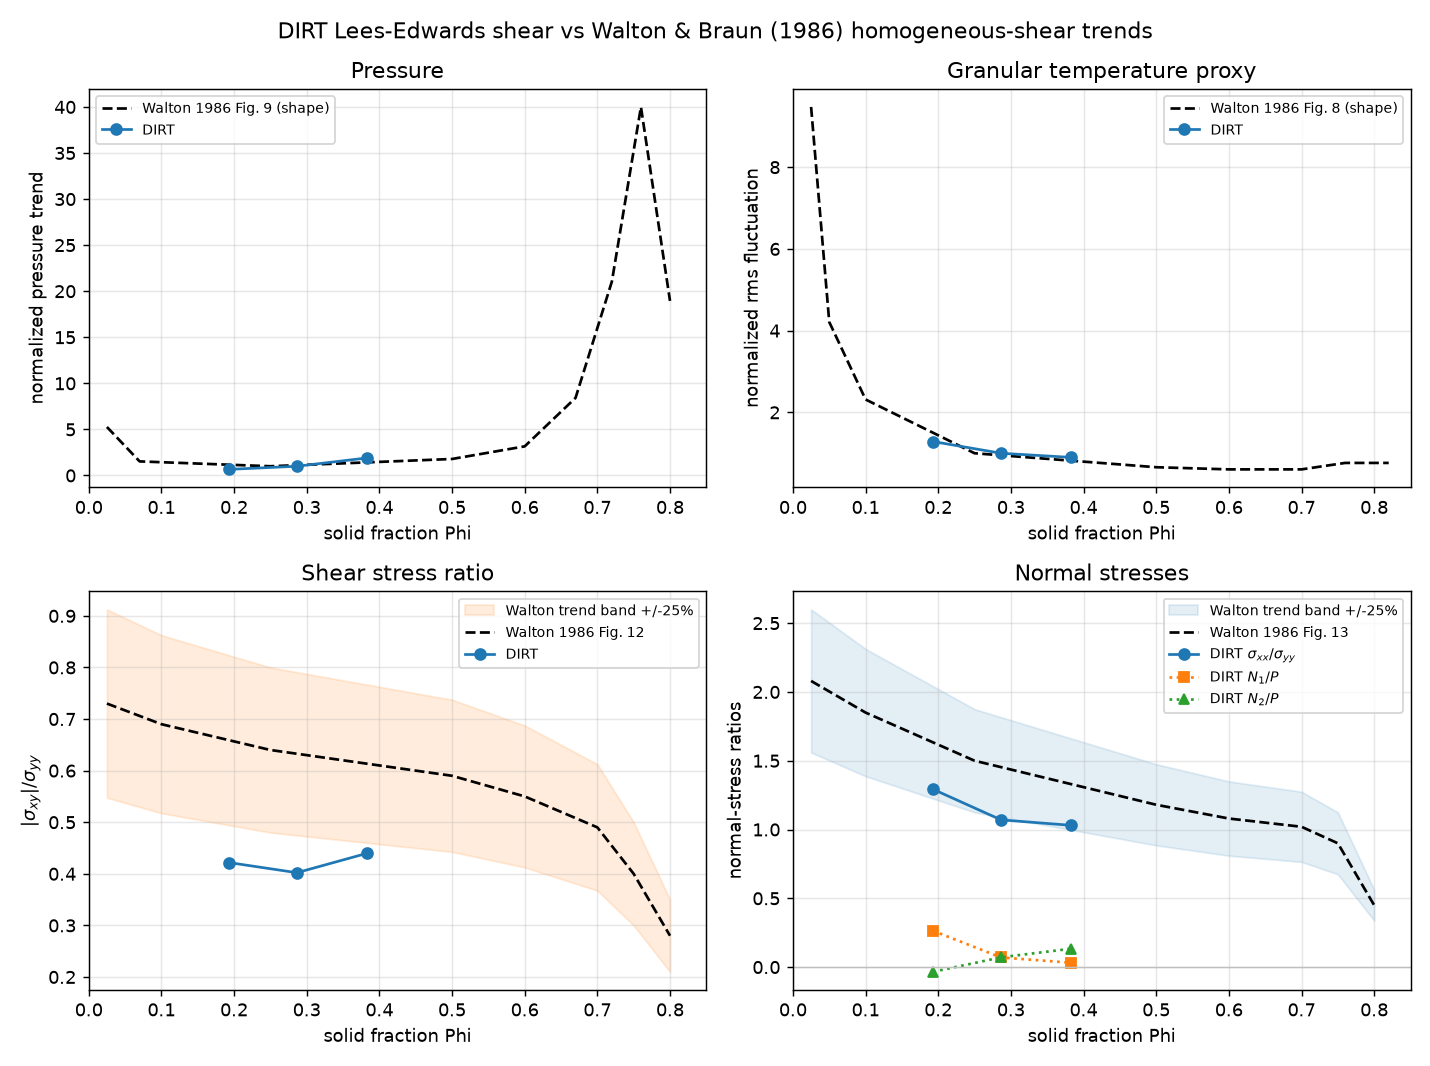
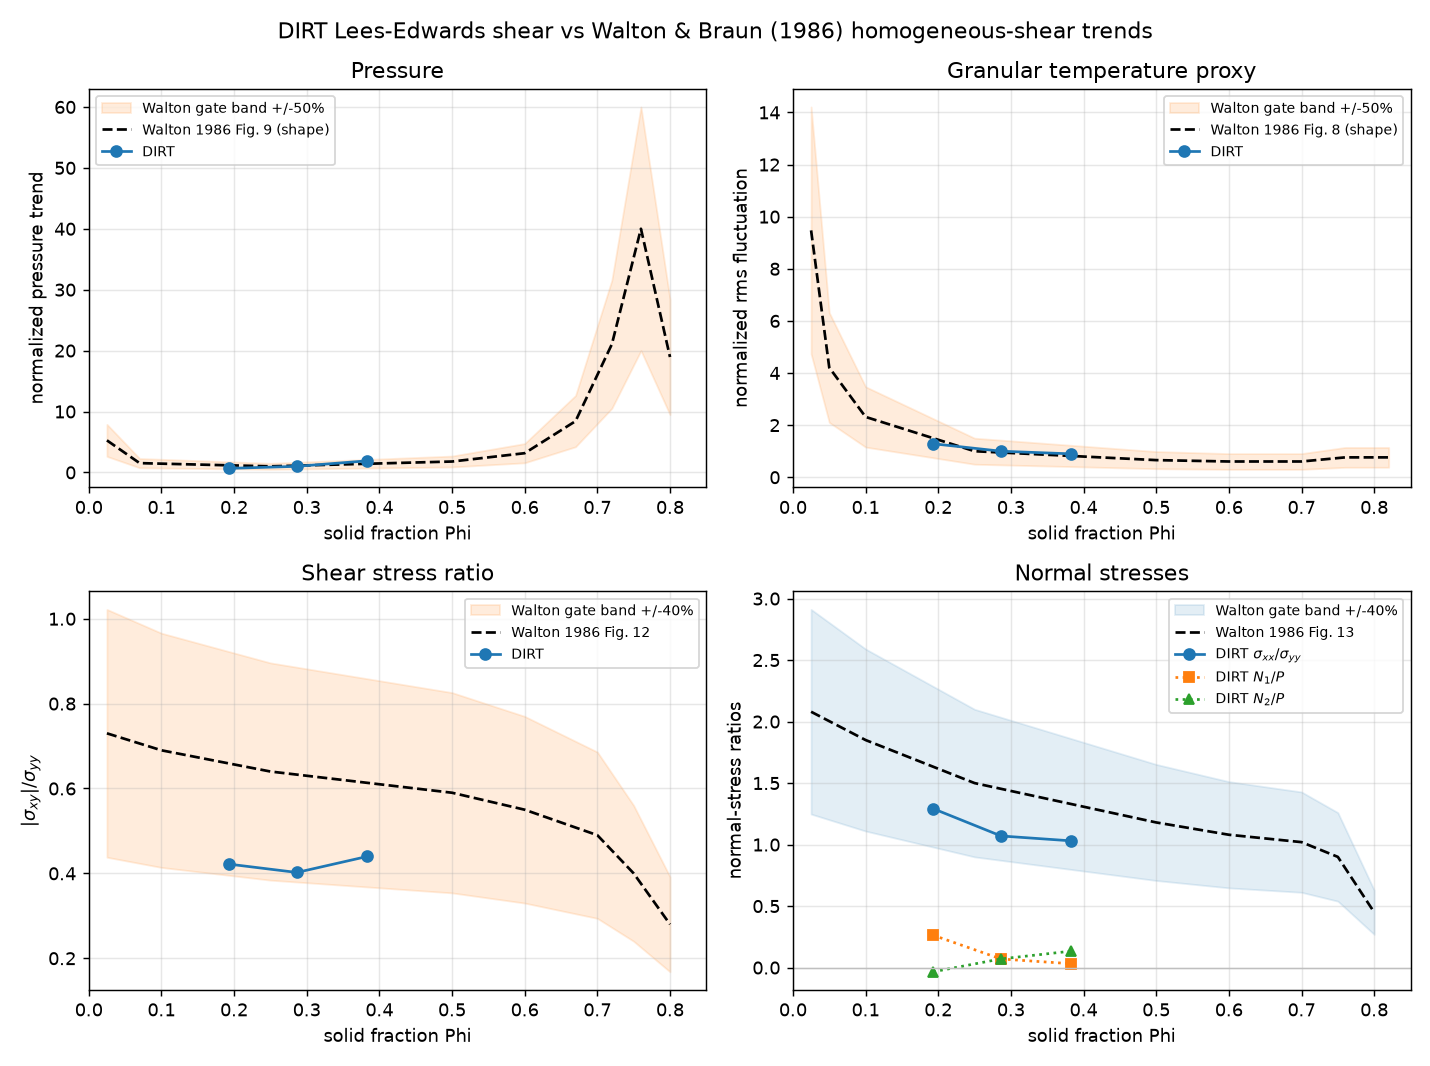
Gate Walton shear overlay against reference bands

diff --git a/examples/bench_lebc_shear/sweep.py b/examples/bench_lebc_shear/sweep.py
@@ -474,27 +474,86 @@ def normalize_to_ref(xs, ys, ref, ref_phi=0.30):
     return [y / scale for y in ys]
 
 
+WALTON_SHAPE_TOL = 0.50
+WALTON_STRESS_RATIO_TOL = 0.40
+
+
+def interp_ref(ref, x):
+    """Linear interpolation over the digitized Walton reference curve."""
+    pts = sorted(ref)
+    if x <= pts[0][0]:
+        return pts[0][1]
+    if x >= pts[-1][0]:
+        return pts[-1][1]
+    for (x0, y0), (x1, y1) in zip(pts, pts[1:]):
+        if x0 <= x <= x1:
+            t = (x - x0) / (x1 - x0)
+            return y0 + t * (y1 - y0)
+    return pts[-1][1]
+
+
+def in_relative_band(value, reference, tol):
+    if not (math.isfinite(value) and math.isfinite(reference)) or reference == 0.0:
+        return False
+    return (1.0 - tol) * reference <= value <= (1.0 + tol) * reference
+
+
+def walton_shape_ratios(phi, values, key, ref_phi=0.30):
+    """Return (phi, normalized DIRT, normalized interpolated Walton) tuples."""
+    if not phi or not values:
+        return []
+    ref_values = [interp_ref(WALTON_REF[key], x) for x in phi]
+    dirt_norm = normalize_to_ref(phi, values, WALTON_REF[key], ref_phi=ref_phi)
+    ref_norm = normalize_to_ref(phi, ref_values, WALTON_REF[key], ref_phi=ref_phi)
+    return list(zip(phi, dirt_norm, ref_norm))
+
+
 def walton_trend_checks(points):
-    """Trend gates against Walton 1986 qualitative homogeneous-shear signatures."""
+    """Trend gates against digitized Walton 1986 homogeneous-shear signatures.
+
+    Walton is a 2-D disk calculation and this DIRT case is 3-D spheres, so the
+    pressure and fluctuation-velocity gates compare normalized shapes instead of
+    raw magnitudes. Dimensionless stress ratios are compared directly with a
+    wider cross-geometry band, and the same bands are drawn in the overlay plot.
+    """
     prod = sorted([p for p in points if p["sweep"] == "production"], key=lambda d: d["phi"])
     if len(prod) < 3:
         return [(False, f"Walton trend cases: {len(prod)} production points (need >=3)")]
     checks = []
+    phi = [p["phi"] for p in prod]
     pbag = [p["p"] / (DENSITY * D_MEAN**2 * p["gdot"]**2) for p in prod]
     tstar = [p["T"] / (p["gdot"] * D_MEAN) ** 2 for p in prod]
+    vrms = [math.sqrt(3.0 * max(v, 0.0)) for v in tstar]
     dyn_mu = [abs(p["sxy"]) / abs(p["syy"]) if p["syy"] else float("nan") for p in prod]
     sxx_syy = [p["sxx"] / p["syy"] if p["syy"] else float("nan") for p in prod]
     n1_over_p = [p["N1"] / p["p"] if p["p"] else float("nan") for p in prod]
     n2_over_p = [p["N2"] / p["p"] if p["p"] else float("nan") for p in prod]
 
-    checks.append((max(pbag) / min(pbag) > 1.15,
-                   "Walton pressure trend: Bagnold-normalized pressure varies with packing"))
-    checks.append((tstar[0] > tstar[-1],
-                   "Walton granular-temperature trend: T/(gdot d)^2 decreases from loose to denser flow"))
-    checks.append((all(0.20 <= x <= 0.90 for x in dyn_mu),
-                   "Walton shear-ratio trend: |sigma_xy|/sigma_yy remains in rapid-shear range"))
-    checks.append((all(0.35 <= x <= 2.5 for x in sxx_syy),
-                   "Walton normal-stress trend: sigma_xx/sigma_yy stays finite and positive"))
+    pressure_pairs = walton_shape_ratios(phi, pbag, "pressure_total")
+    velocity_pairs = walton_shape_ratios(phi, vrms, "velocity_rms")
+    pressure_ok = all(in_relative_band(dirt, ref, WALTON_SHAPE_TOL)
+                      for _, dirt, ref in pressure_pairs)
+    velocity_ok = all(in_relative_band(dirt, ref, WALTON_SHAPE_TOL)
+                      for _, dirt, ref in velocity_pairs)
+    dyn_pairs = [(x, y, interp_ref(WALTON_REF["dynamic_friction"], x)) for x, y in zip(phi, dyn_mu)]
+    normal_pairs = [(x, y, interp_ref(WALTON_REF["stress_ratio_xx_yy"], x)) for x, y in zip(phi, sxx_syy)]
+    dyn_ok = all(in_relative_band(dirt, ref, WALTON_STRESS_RATIO_TOL)
+                 for _, dirt, ref in dyn_pairs)
+    normal_ok = all(in_relative_band(dirt, ref, WALTON_STRESS_RATIO_TOL)
+                    for _, dirt, ref in normal_pairs)
+
+    checks.append((pressure_ok,
+                   f"Walton pressure shape: normalized DIRT within ±{int(WALTON_SHAPE_TOL*100)}% "
+                   "of digitized Fig. 9 at measured Phi"))
+    checks.append((velocity_ok,
+                   f"Walton fluctuation-velocity shape: normalized DIRT within ±{int(WALTON_SHAPE_TOL*100)}% "
+                   "of digitized Fig. 8 at measured Phi"))
+    checks.append((dyn_ok,
+                   f"Walton shear-ratio gate: |sigma_xy|/sigma_yy within ±{int(WALTON_STRESS_RATIO_TOL*100)}% "
+                   "of digitized Fig. 12 at measured Phi"))
+    checks.append((normal_ok,
+                   f"Walton normal-stress gate: sigma_xx/sigma_yy within ±{int(WALTON_STRESS_RATIO_TOL*100)}% "
+                   "of digitized Fig. 13 at measured Phi"))
     checks.append((all(abs(x) < 2.0 for x in n1_over_p) and all(abs(x) < 2.0 for x in n2_over_p),
                    "DIRT normal-stress differences: |N1|/P and |N2|/P remain bounded"))
     return checks
@@ -518,7 +577,12 @@ def plot_walton_overlay(points, plt):
     fig, axs = plt.subplots(2, 2, figsize=(11, 8.2))
     ax = axs[0][0]
     wx, wy = zip(*WALTON_REF["pressure_total"])
-    ax.plot(wx, normalize_to_ref(list(wx), list(wy), WALTON_REF["pressure_total"]), "k--",
+    w_norm = normalize_to_ref(list(wx), list(wy), WALTON_REF["pressure_total"])
+    ax.fill_between(wx, [(1.0 - WALTON_SHAPE_TOL) * y for y in w_norm],
+                    [(1.0 + WALTON_SHAPE_TOL) * y for y in w_norm],
+                    color="tab:orange", alpha=0.14,
+                    label=f"Walton gate band +/-{int(WALTON_SHAPE_TOL*100)}%")
+    ax.plot(wx, w_norm, "k--",
             label="Walton 1986 Fig. 9 (shape)")
     ax.plot(phi, normalize_to_ref(phi, pbag, WALTON_REF["pressure_total"]), "o-", label="DIRT")
     ax.set_ylabel("normalized pressure trend")
@@ -526,7 +590,12 @@ def plot_walton_overlay(points, plt):
 
     ax = axs[0][1]
     wx, wy = zip(*WALTON_REF["velocity_rms"])
-    ax.plot(wx, normalize_to_ref(list(wx), list(wy), WALTON_REF["velocity_rms"]), "k--",
+    w_norm = normalize_to_ref(list(wx), list(wy), WALTON_REF["velocity_rms"])
+    ax.fill_between(wx, [(1.0 - WALTON_SHAPE_TOL) * y for y in w_norm],
+                    [(1.0 + WALTON_SHAPE_TOL) * y for y in w_norm],
+                    color="tab:orange", alpha=0.14,
+                    label=f"Walton gate band +/-{int(WALTON_SHAPE_TOL*100)}%")
+    ax.plot(wx, w_norm, "k--",
             label="Walton 1986 Fig. 8 (shape)")
     ax.plot(phi, normalize_to_ref(phi, vrms, WALTON_REF["velocity_rms"]), "o-", label="DIRT")
     ax.set_ylabel("normalized rms fluctuation")
@@ -534,8 +603,10 @@ def plot_walton_overlay(points, plt):
 
     ax = axs[1][0]
     wx, wy = zip(*WALTON_REF["dynamic_friction"])
-    ax.fill_between(wx, [0.75 * y for y in wy], [1.25 * y for y in wy],
-                    color="tab:orange", alpha=0.14, label="Walton trend band +/-25%")
+    ax.fill_between(wx, [(1.0 - WALTON_STRESS_RATIO_TOL) * y for y in wy],
+                    [(1.0 + WALTON_STRESS_RATIO_TOL) * y for y in wy],
+                    color="tab:orange", alpha=0.14,
+                    label=f"Walton gate band +/-{int(WALTON_STRESS_RATIO_TOL*100)}%")
     ax.plot(wx, wy, "k--", label="Walton 1986 Fig. 12")
     ax.plot(phi, dyn_mu, "o-", label="DIRT")
     ax.set_ylabel(r"$|\sigma_{xy}|/\sigma_{yy}$")
@@ -543,8 +614,10 @@ def plot_walton_overlay(points, plt):
 
     ax = axs[1][1]
     wx, wy = zip(*WALTON_REF["stress_ratio_xx_yy"])
-    ax.fill_between(wx, [0.75 * y for y in wy], [1.25 * y for y in wy],
-                    color="tab:blue", alpha=0.12, label="Walton trend band +/-25%")
+    ax.fill_between(wx, [(1.0 - WALTON_STRESS_RATIO_TOL) * y for y in wy],
+                    [(1.0 + WALTON_STRESS_RATIO_TOL) * y for y in wy],
+                    color="tab:blue", alpha=0.12,
+                    label=f"Walton gate band +/-{int(WALTON_STRESS_RATIO_TOL*100)}%")
     ax.plot(wx, wy, "k--", label="Walton 1986 Fig. 13")
     ax.plot(phi, sxx_syy, "o-", label=r"DIRT $\sigma_{xx}/\sigma_{yy}$")
     ax.plot(phi, n1_over_p, "s:", label=r"DIRT $N_1/P$")

diff --git a/examples/bench_lebc_shear/README.md b/examples/bench_lebc_shear/README.md
@@ -52,7 +52,8 @@ that each reaches a **steady, physical shear-stress ratio** `μ = |σ_xy|/P`
 (0.30 ≤ μ ≤ 0.70, pressure `P > 0`, window drift < 15%). It also checks the
 Walton & Braun (1986) homogeneous-shear trends for pressure, shear ratio,
 granular-temperature proxy, and normal-stress anisotropy, and writes
-`plots/walton_1986_overlay.png`. It completes in ~9 min and prints
+`plots/walton_1986_overlay.png` with the same bands enforced by the PASS gate.
+It completes in ~9 min and prints
 `ALL CHECKS PASSED`/`CHECKS FAILED`. The full production+KT sweep and its
 kinetic-theory tolerances (in `graph()`) are **unchanged** and still run via
 `sweep.py full`.
@@ -103,10 +104,12 @@ near random-close-packing, is reachable. The sweep runs two families:
    records directly: pressure, shear stress ratio, granular-temperature proxy,
    and normal-stress anisotropy. Because Walton is two-dimensional disks and
    DIRT is three-dimensional spheres, this is a dimensionless trend gate rather
-   than a pointwise material calibration: pressure must vary with packing, the
-   fluctuation velocity must fall from loose to denser flow, `|σ_xy|/σ_yy` must
-   remain in the rapid-shear range, and `N1/P`, `N2/P`, and `σ_xx/σ_yy` must stay
-   finite and physical.
+   than a pointwise material calibration: Bagnold-normalized pressure and the
+   fluctuation-velocity proxy are normalized by their mid-density value and must
+   stay within the plotted ±50% Walton shape band at the measured solid
+   fractions; `|σ_xy|/σ_yy` and `σ_xx/σ_yy` must stay within the plotted ±40%
+   Walton stress-ratio bands. `N1/P` and `N2/P` are retained as bounded
+   diagnostics.
 
 ![Kinetic-theory validation](plots/kt_validation.png)
 
@@ -135,8 +138,9 @@ averaging window shaded. PASS requires the printed window drift to stay below 15
 
 *Frictional LEBC shear: DIRT pressure, shear ratio, granular-temperature proxy,
 and normal-stress ratios over solid fraction against digitized Walton & Braun
-(1986) homogeneous-shear trends. PASS requires the printed dimensionless trend
-checks to stay physical while preserving the existing KT and GDR gates.*
+(1986) homogeneous-shear trends. PASS requires DIRT to stay inside the same
+Walton tolerance bands drawn on the figure while preserving the existing KT and
+GDR gates.*
 
 ## Outputs
 

diff --git a/examples/VALIDATION.md b/examples/VALIDATION.md
@@ -1015,10 +1015,15 @@ The validation has two gates, deliberately kept separate:
   da Cruz dense-flow envelope `0.30 <= μ <= 0.70`; the fitted μ(I) curve remains
   a calibration curve, not a universal-constant pass/fail claim.
 - **Walton 1986 trend gate (`sweep.py` default and `graph`): PASS on the committed
-  plot.** DIRT pressure, shear ratio, granular-temperature proxy, `N1/P`, `N2/P`,
-  and `σ_xx/σ_yy` are compared with digitized Walton & Braun (1986) homogeneous
-  shear trends. This is a dimensionless trend check because Walton used 2-D disks
-  and DIRT uses 3-D spheres; it does not replace the KT or GDR gates.
+  plot.** DIRT pressure, shear ratio, granular-temperature proxy, and
+  `σ_xx/σ_yy` are compared with digitized Walton & Braun (1986) homogeneous
+  shear trends at the measured solid fractions. This is a dimensionless
+  cross-geometry check because Walton used 2-D disks and DIRT uses 3-D spheres:
+  Bagnold-normalized pressure and fluctuation velocity are normalized by their
+  mid-density value and gated inside the plotted ±50% Walton shape bands, while
+  `|σ_xy|/σ_yy` and `σ_xx/σ_yy` are gated inside the plotted ±40% Walton
+  stress-ratio bands. `N1/P` and `N2/P` remain bounded diagnostics. The Walton
+  gate does not replace the KT or GDR gates.
 
 ![Kinetic-theory validation](bench_lebc_shear/plots/kt_validation.png)
 
@@ -1039,8 +1044,9 @@ PASS gate (`0.30 <= μ <= 0.70`); the black curve is the calibration fit.*
 
 *DIRT frictional pressure, shear ratio, granular-temperature proxy, and
 normal-stress ratios against digitized Walton & Braun (1986) homogeneous-shear
-trends. The printed PASS/FAIL checks gate the dimensionless trends while the
-existing kinetic-theory and GDR checks remain intact.*
+trends. The shaded bands are the printed PASS/FAIL gates: ±50% on normalized
+shape trends and ±40% on stress ratios, with the existing kinetic-theory and GDR
+checks still intact.*
 
 **Honest read:** the strongest physics check is the frictionless stress collapse
 against kinetic theory and cross-code data; it is expected to deviate near jamming,
